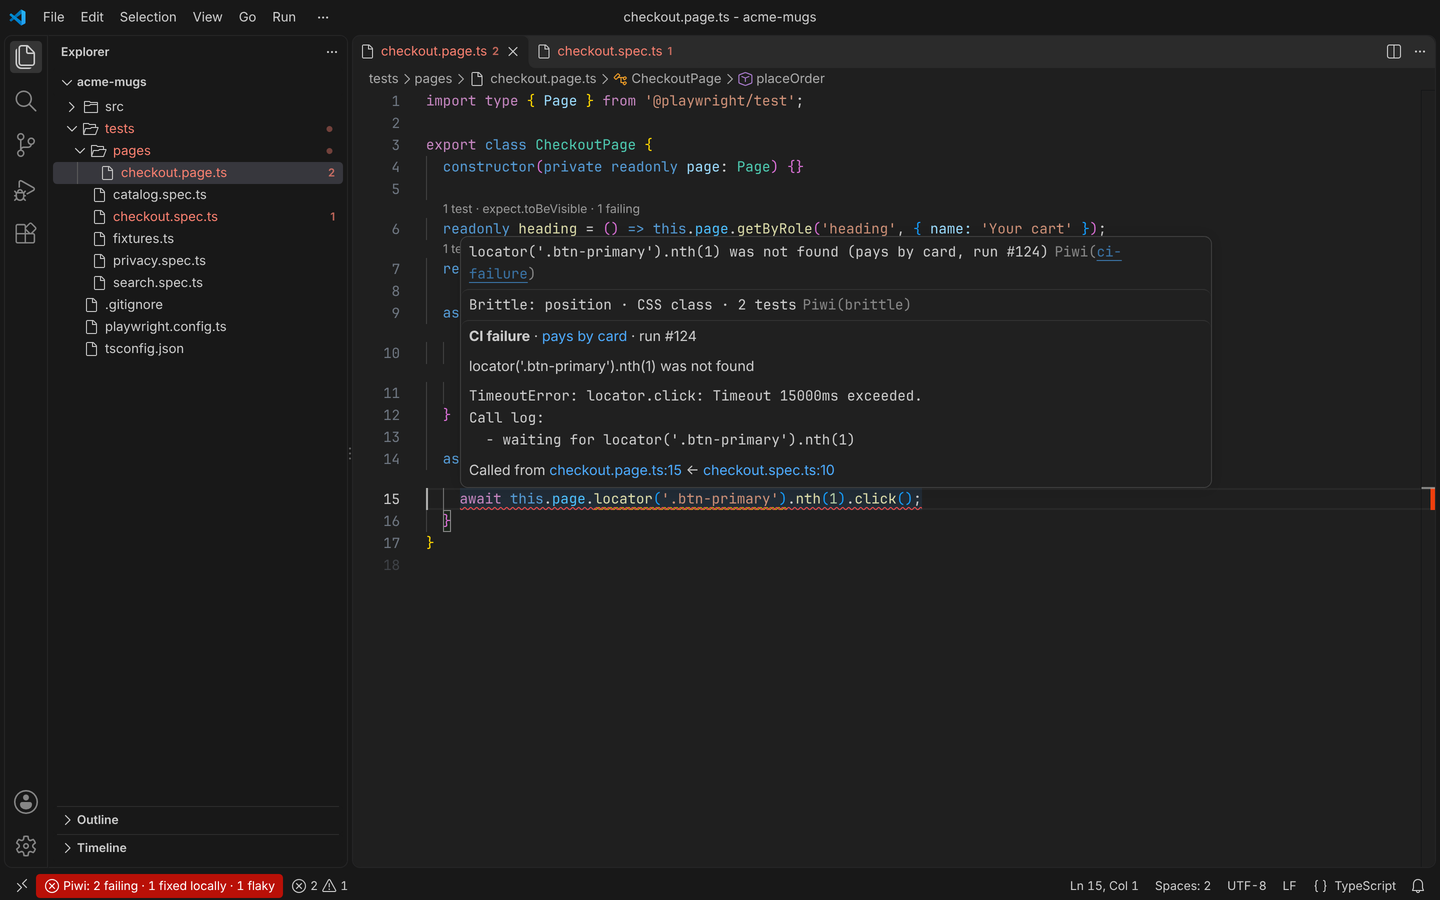
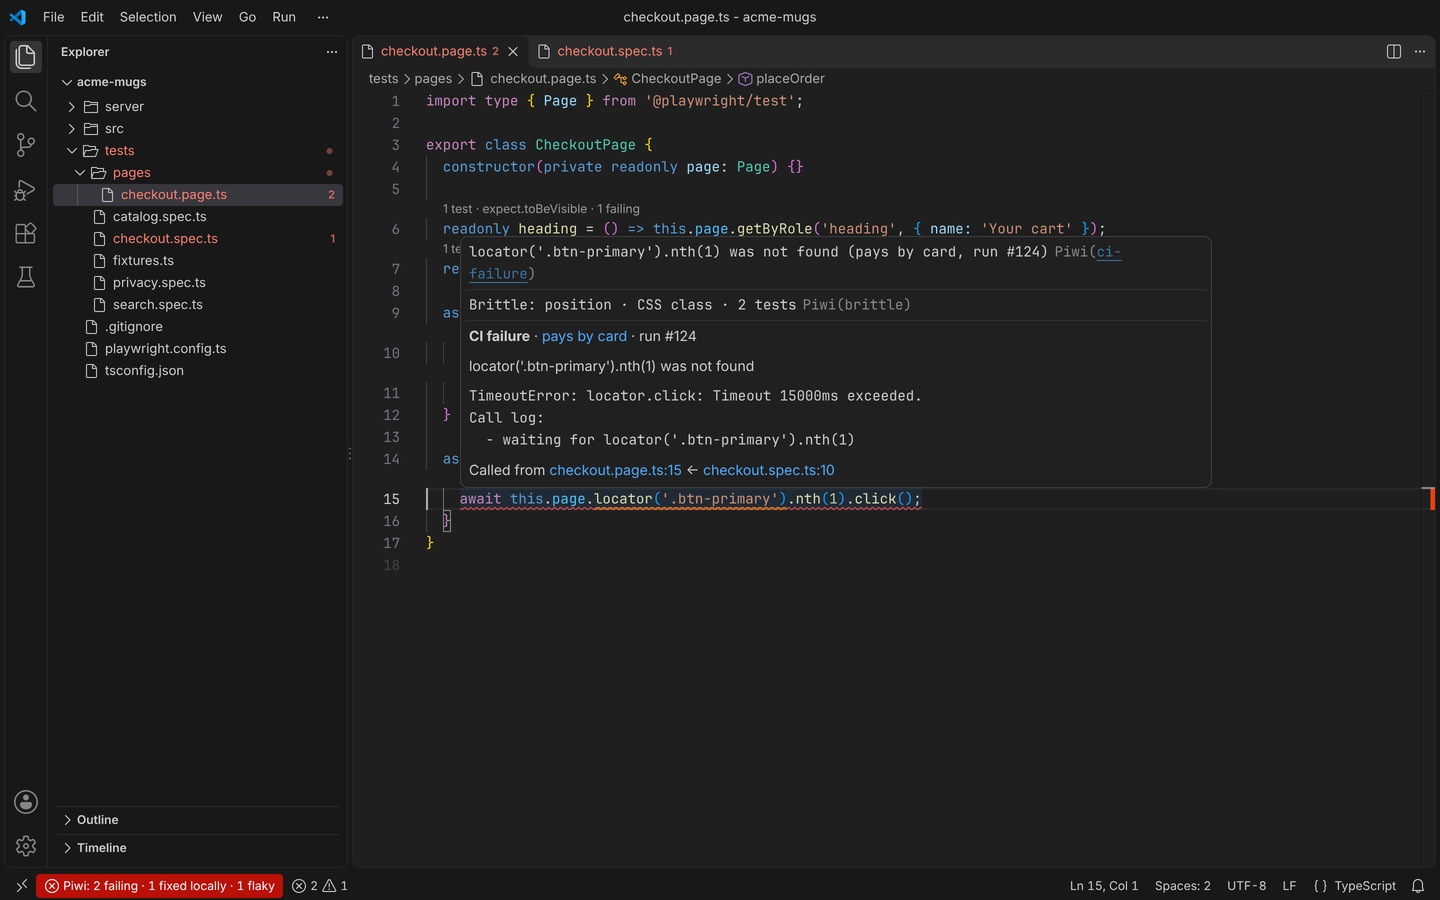
docs(ide): show the testing view, the uncovered changes and the pause bar
Three illustrations, each with a scene that writes it: vscode-testing and
vscode-uncovered in the VS Code screenshot script, picker-pause in the
extension's docs screenshot spec (the reporter's pause bar with Record
here, on the shop page). The shared fixture gains two Nitro server routes,
one no test requests, and a stub of Nitro's auto-imports that its
tsconfig names. The VS Code images are recaptured, as the Testing view
now draws the spec's gutter.

Claude-Session: https://claude.ai/code/session_011xrCwQVM7wrQS8duDz5Z25

Changed region(s): [[0.0312, 0.1244, 0.25, 0.4356]]

diff --git a/apps/extension/tests/e2e/docs-screenshots.spec.ts b/apps/extension/tests/e2e/docs-screenshots.spec.ts
@@ -4,6 +4,7 @@ import sharp from 'sharp';
 import { test as base, expect, launchWithExtension } from './fixtures.js';
 import type { BrowserContext, Page } from '@playwright/test';
 import type { RawCaptureEvent } from '@piwitests/core/recording';
+import { showPauseBar } from '@piwitests/picker-dom';
 import { DIST, SHOP_ORIGIN, injectCoverage, openShop, stubCoverageChrome } from './coverage-fixtures.js';
 import { openDevtoolsPage, selectElement } from './devtools-stub.js';
 import { stubChromeI18n } from './i18n-stub.js';
@@ -18,7 +19,8 @@ import { stubChromeStorage } from './recording-stub.js';
  * The store images (`picker-pick`, `picker-popup`, `picker-lint`,
  * `picker-record`) are a 1280 × 800 viewport captured at 2× and written at
  * 1280 px wide, the size the stores take; the overlay and the DevTools pane
- * are the docs' alone, at their own sizes. The harness in
+ * are the docs' alone, at their own sizes. `picker-pause` is the docs' too:
+ * the reporter's pause bar, at the stores' size. The harness in
  * `apps/application/scripts/take-feature-screenshots.mjs` lists them all as
  * external so `--check` leaves them alone.
  */
@@ -130,6 +132,24 @@ test('picker-popup', async ({ context, extensionId }) => {
     .png()
     .toBuffer();
   await sharp(composed).resize({ width: VIEWPORT.width }).png().toFile(path.join(SCREENSHOTS, 'picker-popup.png'));
+});
+
+// The pause bar of a test paused at a breakpoint in a run the editor started: the reporter's, on the shop page, with
+// the element of the paused action highlighted as Playwright highlights it, and Record here offered.
+test('picker-pause', async ({ context }) => {
+  const page = await shopPage(context);
+  await page.getByRole('button', { name: 'Checkout' }).highlight();
+  await page.evaluate(showPauseBar, {
+    place: 'cart.spec.ts:12',
+    attempt: null,
+    action: 'click',
+    locator: "getByRole('button', { name: 'Checkout' })",
+    record: true,
+  });
+  const bar = page.getByRole('toolbar', { name: 'Piwi: test paused' });
+  await bar.getByRole('button', { name: 'Record here' }).hover();
+  await page.waitForTimeout(500);
+  await shoot(page, 'picker-pause');
 });
 
 test('picker-record', async ({ context }) => {

diff --git a/apps/docs/features/editor-runs.md b/apps/docs/features/editor-runs.md
@@ -43,6 +43,11 @@ folders and `test.describe` blocks, each test with its latest result, and for a 
 or the runs laid over it change, and a run in progress is a test run of its own, each test shown as it begins and
 ends. The view's gutter shows each test's result in place of Piwi's icon; the line keeps Piwi's hover.
 
+<figure>
+  <img src="/screenshots/vscode-testing.png" alt="VS Code: the Testing view lists the spec's tests with their latest results, and a failing test's error is peeked at its line in the spec">
+  <figcaption>The Testing view with the latest run's results, and why <strong>pays by card</strong> failed, at its line.</figcaption>
+</figure>
+
 **Run with Piwi**, the view's run profile, runs the tests you pick as the commands above do, one command per
 Playwright config with your breakpoints, and **Verify ×3 with Piwi** runs them three times. A test the run gave Piwi no
 result for, such as one the instance does not know yet, passes when the command exited with 0 and is an error

diff --git a/apps/docs/features/editor-breakpoints.md b/apps/docs/features/editor-breakpoints.md
@@ -30,6 +30,11 @@ It is not Playwright's inspector, and no debugger attaches: the test waits in th
 | **Record here** | Records what you do in the page into the editor, above the paused line: [Record from a pause](#record-from-a-pause) |
 | **Finish** | Runs on without pausing again in this test |
 
+<figure>
+  <img src="/screenshots/picker-pause.png" alt="A shop page in the browser, paused before a click on Checkout: the button highlighted, Piwi's pause bar at the top with Resume, Step, Pick a locator, Record here and Finish">
+  <figcaption>A run paused before the click on <strong>Checkout</strong>: the element highlighted, and Piwi's bar at the top of the page.</figcaption>
+</figure>
+
 The page under the bar stays live: scroll it, open the browser's developer tools, or click through it before you
 resume. The test timeout stops while the test is paused, and the test has the time it had left once it resumes.
 

diff --git a/proposals/real-editor-checks.md b/proposals/real-editor-checks.md
@@ -37,7 +37,8 @@ Shared by the two editor scripts:
 
 - **The fixture project**, `apps/vscode/scripts/lib/editor-fixture.mjs`: a small shop's Playwright suite, `acme-mugs`,
   with a page object whose line 15 holds a brittle locator (`locator('.btn-primary').nth(1)`), two tests failing on
-  the latest CI run, a local run since that fixed a third, a flaky catalog test, and a service the tests reach. It is
+  the latest CI run, a local run since that fixed a third, a flaky catalog test, a service the tests reach, and two
+  Nitro server routes, one the checkout tests request and one none does (the `uncovered` scene changes it). It is
   a git repository with one commit, so the branch and commit the service reports exist. It carries type stubs for
   `@playwright/test` and `@piwitests/reporter` under `node_modules/` and a `tsconfig.json`, so neither editor's
   TypeScript service reports errors of its own.

diff --git a/apps/docs/features/editor-coverage.md b/apps/docs/features/editor-coverage.md
@@ -82,6 +82,11 @@ this file`, and so does the hover on a marked line. A test that reaches the file
 branch, takes the marks away. A file nothing can observe, and a project whose code reach is missing or cut short, show
 nothing.
 
+<figure>
+  <img src="/screenshots/vscode-uncovered.png" alt="VS Code: a server route no test reaches, its lines changed since main marked orange, the top lens and the hover saying why">
+  <figcaption>A server route no test requests: the lines changed since <code>main</code> are marked, and the hover says why.</figcaption>
+</figure>
+
 ## Lenses and hover
 
 - **Top of the file**: `Reached by 6 tests · 1 failing · 41 of 63 lines run · 3 lines changed since the coverage run`.
